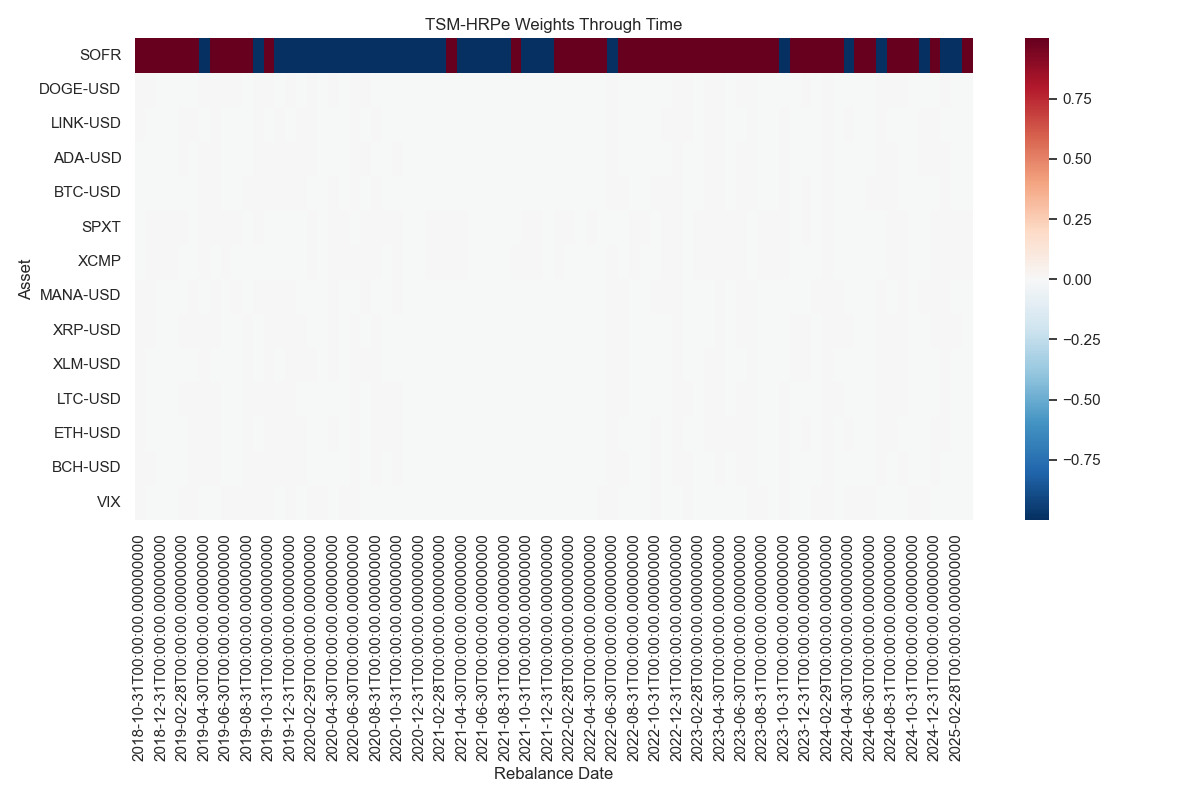
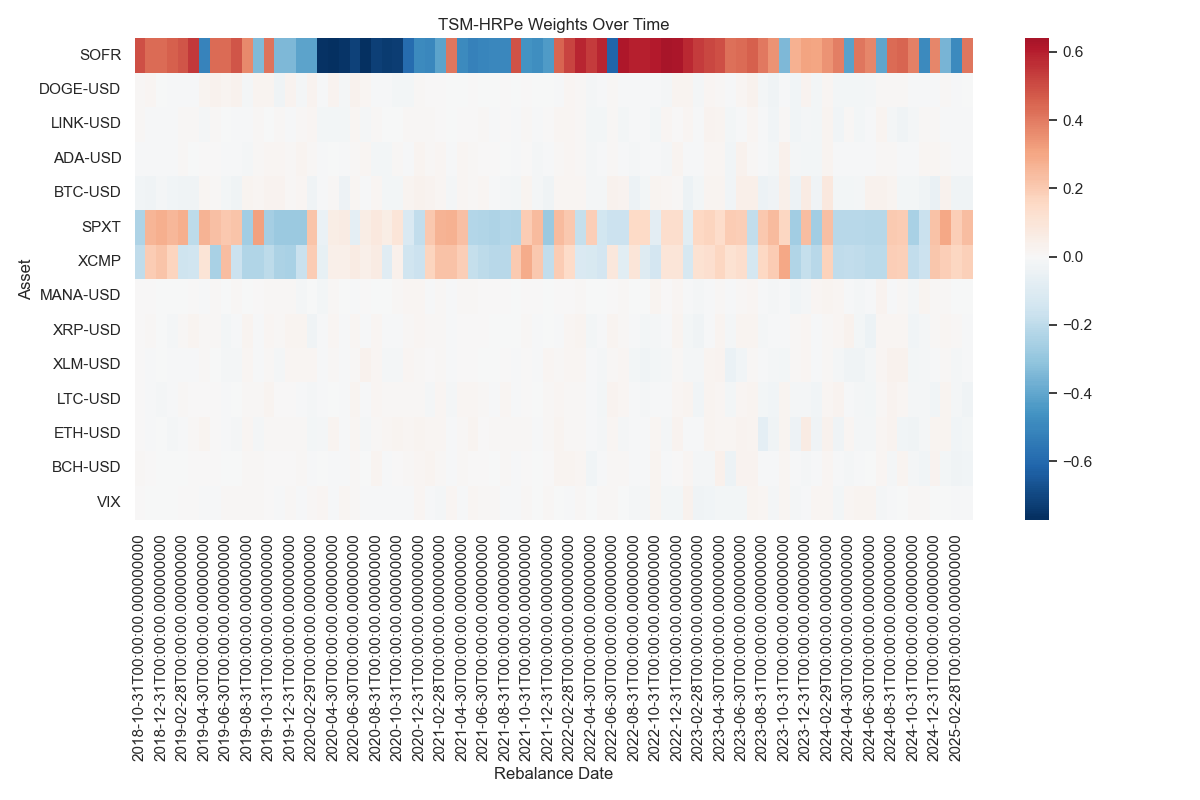
Fix typos in comments and improve code readability in hrp_helpers.py and part4.py
- Corrected "pseudo‐observations" to "pseudo-observations" in hrp_helpers.py.
- Updated comments in part4.py for clarity, including changing "δ1‐distance" to "δ1-distance" and "time‐series" to "time-series".
- Enhanced the documentation in build_tsm_hrpe function to clarify the weight calculation process.
- Refactored variable names for consistency and clarity.

diff --git a/src/part4.py b/src/part4.py
@@ -36,10 +36,10 @@ def build_hrpe(cfg: dict, log_returns: pd.DataFrame) -> pd.Series:
             columns=cov_raw.columns
         )
 
-        # compute δ1‐distance matrix
+        # compute δ1-distance matrix
         dist = schweizer_wolf_distance(window)
 
-        # cluster & quasi‐diagonalize
+        # cluster & quasi-diagonalize
         condensed = squareform(dist.values)
         link      = linkage(condensed, method="single")
         order     = getQuasiDiag(link)
@@ -65,53 +65,66 @@ def build_hrpe(cfg: dict, log_returns: pd.DataFrame) -> pd.Series:
 def build_tsm_hrpe(cfg: dict, log_returns: pd.DataFrame) -> pd.DataFrame:
     """
     Part 4c: Integrate Time-Series Momentum (TSM) with HRPe.
-    Rebalance monthly: signal from past 12 months, then weight = HRPe * sign(signal),
-    normalized so sum(abs(weights)) = 1. Returns DataFrame of monthly weights.
+    Rebalance monthly: signal from past `lookback_months`, then
+    w = HRPe_weights * sign(momentum), normalized so sum(abs(w))=1.
     """
-    lookback         = cfg["windows"]["lookback"]
-    momentum_months  = cfg.get("tsm", {}).get("lookback_months", 12)
-    dates            = log_returns.resample('ME').last().index
-    out_dir          = os.path.dirname(cfg["paths"]["log_returns_csv"])
+    lookback        = cfg["windows"]["lookback"]
+    mom_months      = cfg.get("tsm", {}).get("lookback_months", 12)
+    dates           = log_returns.resample("ME").last().index
+    out_dir         = os.path.dirname(cfg["paths"]["log_returns_csv"])
     os.makedirs(out_dir, exist_ok=True)
 
-    weights_ts = []
-    index_dates = []
+    weights_list, idx = [], []
 
     for date in dates:
-        # need at least momentum_months of history
-        if date < log_returns.index[0] + pd.DateOffset(months=momentum_months):
+        # need enough history for momentum
+        if date < log_returns.index[0] + pd.DateOffset(months=mom_months):
             continue
 
-        # 1) time‐series momentum signal
-        past   = date - pd.DateOffset(months=momentum_months)
+        # 1) momentum signal
+        past   = date - pd.DateOffset(months=mom_months)
         recent = date - pd.DateOffset(months=1)
         ret    = (log_returns.loc[recent] - log_returns.loc[past])
         signal = np.sign(ret)
 
-        # 2) HRPe weights as above
+        # 2) prepare lookback window for HRPe
         window = log_returns.loc[:date].tail(lookback)
-        dist   = schweizer_wolf_distance(window)
-        link   = linkage(squareform(dist.values), method="single")
-        order  = getQuasiDiag(link)
-        labels = window.columns[order].tolist()
-        hrp_w  = getRecBipart(window.cov(), labels)
 
-        # 3) apply signal, normalize
+        # 2a) clean its covariance
+        cov_raw = window.cov()
+        eigv, eigvec = np.linalg.eigh(cov_raw.values)
+        eigv = np.clip(eigv, 1e-4, None)
+        cov_clean = pd.DataFrame(
+            eigvec @ np.diag(eigv) @ eigvec.T,
+            index=cov_raw.index, columns=cov_raw.columns
+        )
+
+        # 2b) clustering via SW on returns
+        dist      = schweizer_wolf_distance(window)
+        condensed = squareform(dist.values)
+        link      = linkage(condensed, method="single")
+        order     = getQuasiDiag(link)
+        labels    = window.columns[order].tolist()
+
+        # 2c) allocate on cleaned covariance
+        hrp_w = getRecBipart(cov_clean, labels)
+
+        # 3) tilt by momentum, normalize abs sum to 1
         w = hrp_w * signal.reindex(hrp_w.index)
         w = w.div(w.abs().sum())
 
-        weights_ts.append(w)
-        index_dates.append(date)
+        weights_list.append(w)
+        idx.append(date)
 
-    weights_df = pd.DataFrame(weights_ts, index=index_dates)
+    # assemble, save, plot
+    weights_df = pd.DataFrame(weights_list, index=idx)
     weights_df.to_csv(f"{out_dir}/weights_TSM_HRPe.csv")
 
-    # heatmap over time
-    plt.figure(figsize=(12,8))
-    sns.heatmap(weights_df.T, cmap='RdBu_r', center=0)
-    plt.title('TSM-HRPe Weights Through Time')
-    plt.xlabel('Rebalance Date')
-    plt.ylabel('Asset')
+    plt.figure(figsize=(12, 8))
+    sns.heatmap(weights_df.T, cmap="RdBu_r", center=0)
+    plt.title("TSM-HRPe Weights Over Time")
+    plt.xlabel("Rebalance Date")
+    plt.ylabel("Asset")
     plt.tight_layout()
     plt.savefig(f"{out_dir}/heatmap_TSM_HRPe.png")
     plt.close()

diff --git a/src/hrp_helpers.py b/src/hrp_helpers.py
@@ -81,7 +81,7 @@ def delta1_copula_distance(log_returns: pd.DataFrame) -> pd.DataFrame:
     # number of observations
     n_obs, _ = log_returns.shape
 
-    # 1) pseudo‐observations in (0,1)
+    # 1) pseudo-observations in (0,1)
     u = log_returns.rank(axis=0, method="average") / (n_obs + 1)
 
     assets = log_returns.columns
